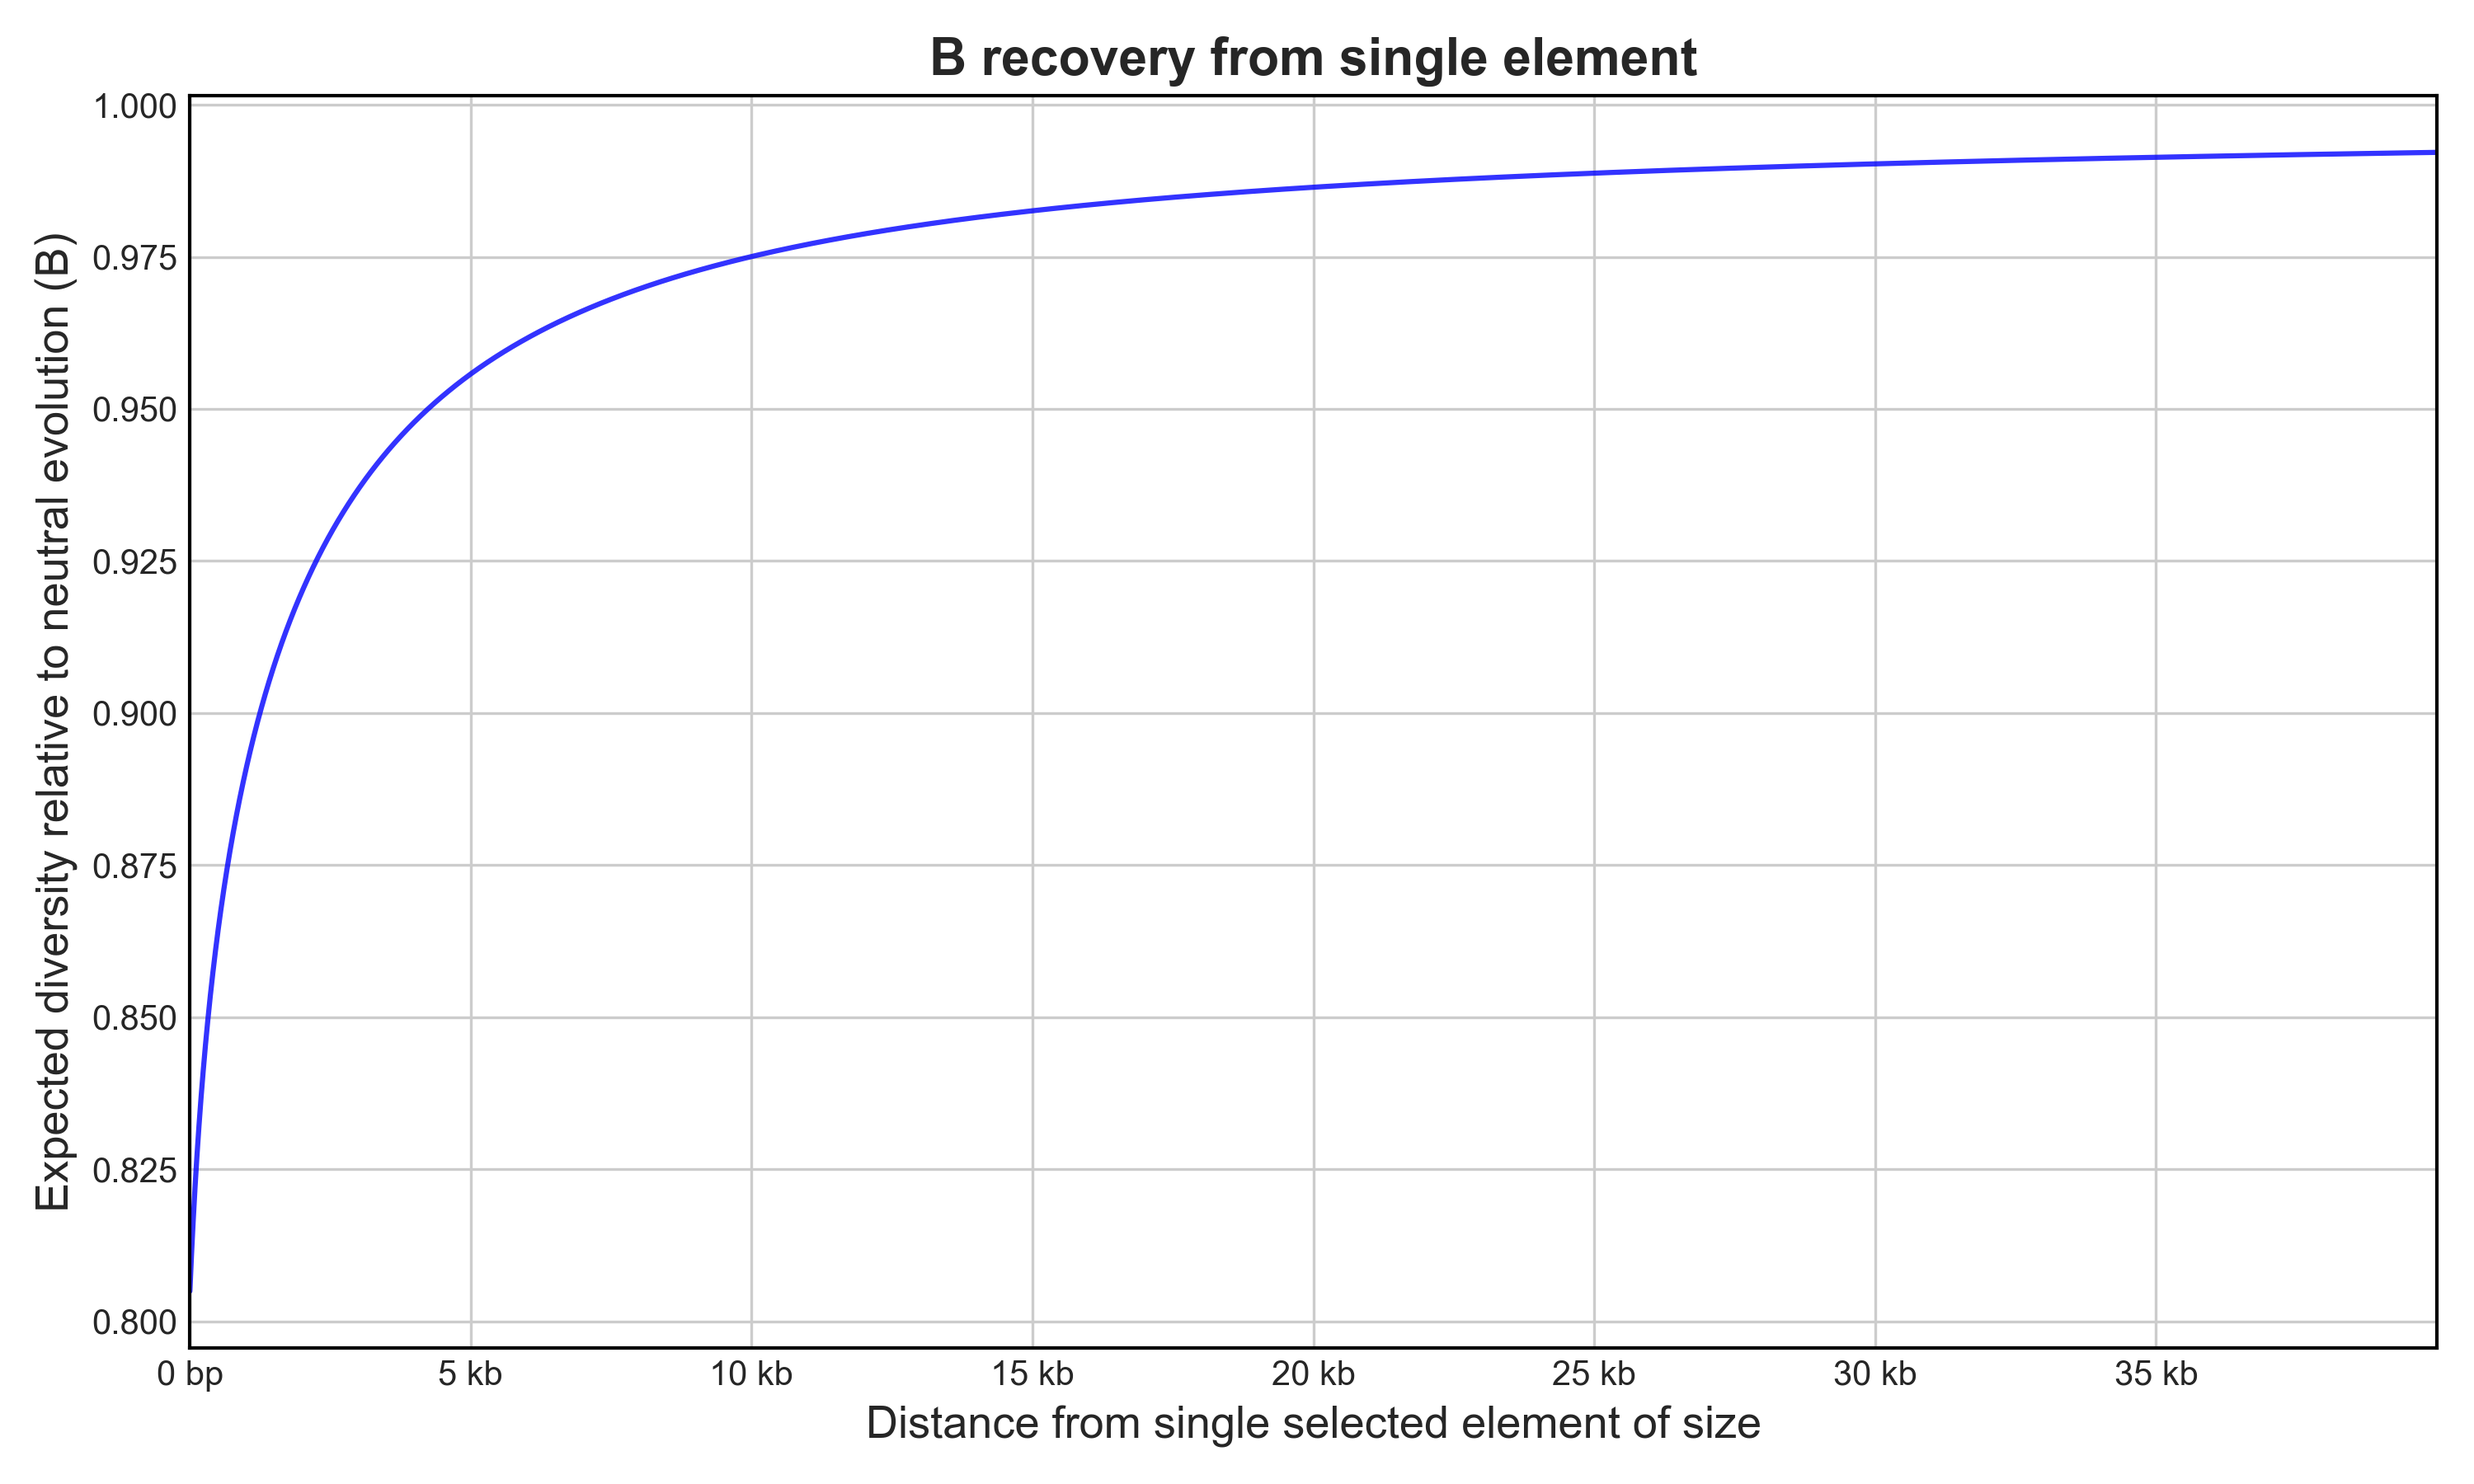
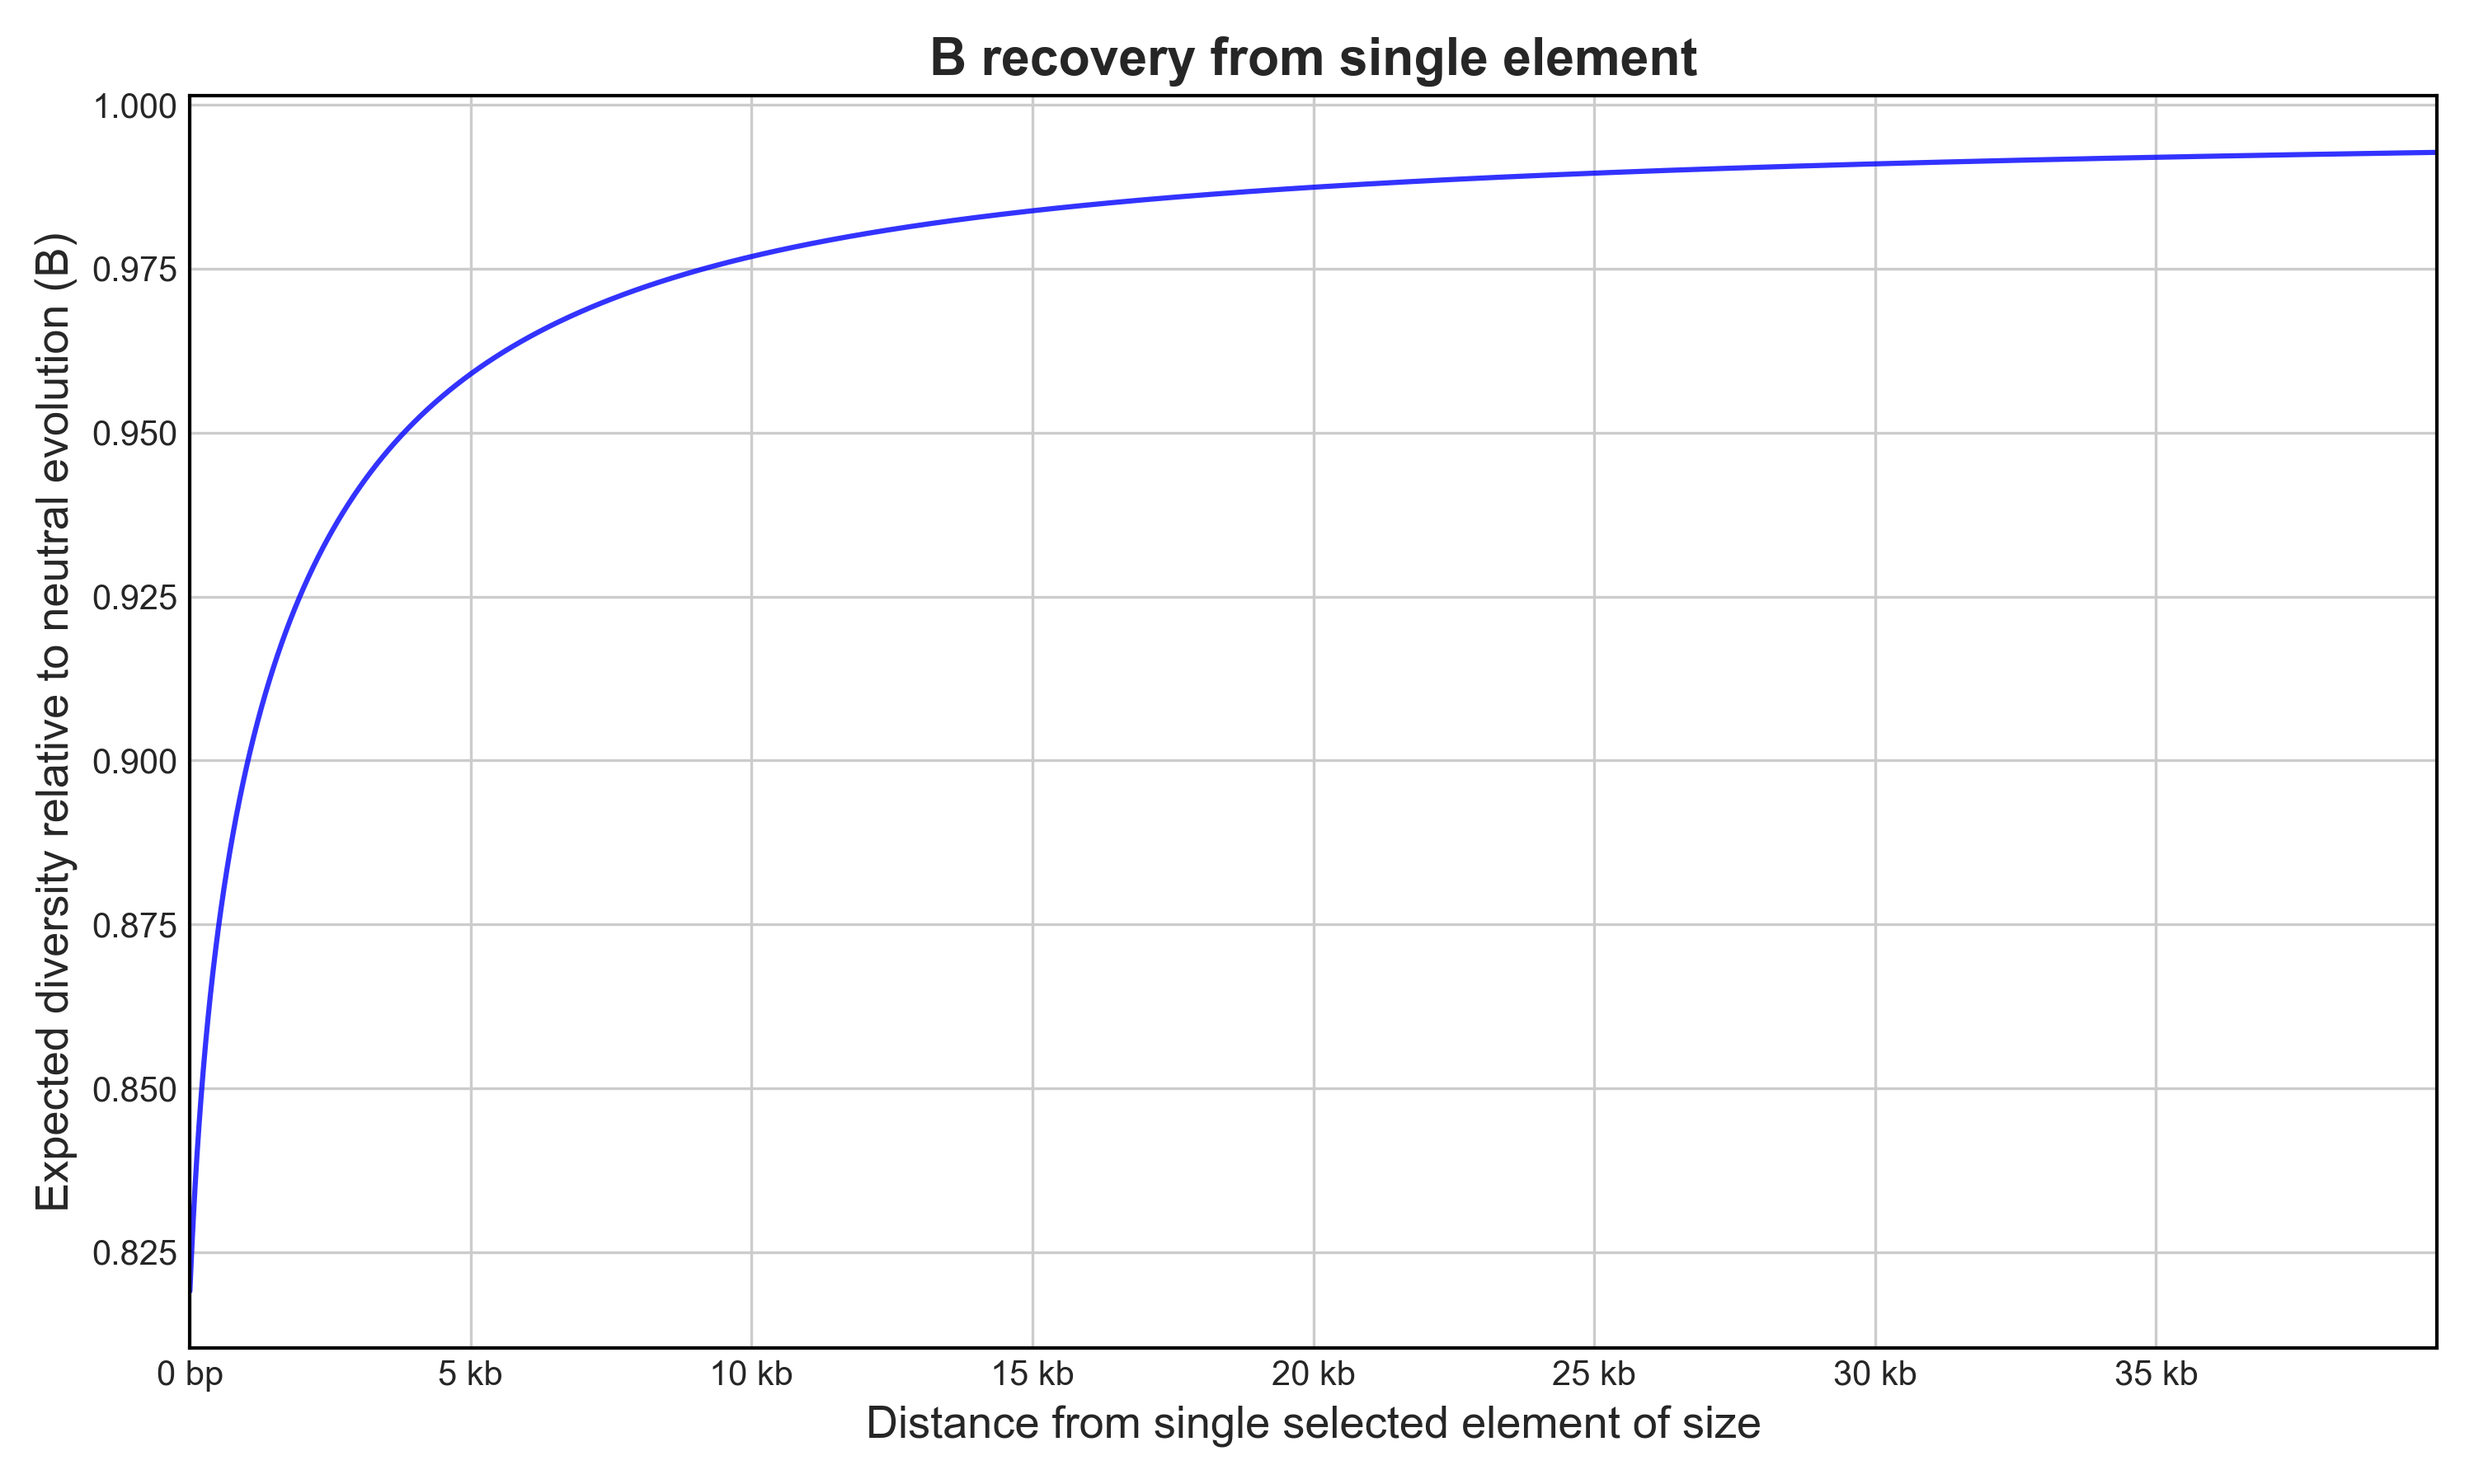
Add demography params to test files

diff --git a/tests/testparams/ExpandParams_5N_1T.py b/tests/testparams/ExpandParams_5N_1T.py
@@ -1,4 +1,4 @@
-## ./Bvalcalc.py --gene --pop_params tests/testparams/ContractParams_5N_0.2T.py --plot_output --out ../sim_testing/calculatedBfiles/40kb_contract_5N_0.2T.bvals --pop_change
+## ./Bvalcalc.py --gene --pop_params tests/testparams/ExpandParams_5N_1T.py --plot_output --out ../sim_testing/calculatedBfiles/40kb_expand_5N_1T.bvals --pop_change
 
 ## Core parameters
 x = 100 # Scaling factor (N,u,r), keep as 1 unless calculating for rescaled simulations
@@ -9,8 +9,8 @@ g = 0*1e-8*x # Gene conversion initiation rate per bp, per generation
 k = 440 # Gene conversion tract length (bp)
 
 ## Demography parameters
-Ncur = Nanc/5 # Current population size (!Requires --pop_change)
-time_of_change = 0.2*Nanc # Time in 2Ncur generations ago that effective population size went from Nanc to Ncur (!Requires --pop_change)
+Ncur = Nanc*5 # Current population size (!Requires --pop_change)
+time_of_change = 1*Nanc # Time in 2Ncur generations ago that effective population size went from Nanc to Ncur (!Requires --pop_change)
 
 # Distribution of fitness effects (DFE) parameters (Must equal 1)
 f0 = 0.1 #(*Proportion of effectively neutral mutations with 0 <= |2Nes| < 1 *) 0.25

diff --git a/tests/testparams/ContractParams_5N_1T.py b/tests/testparams/ContractParams_5N_1T.py
@@ -1,4 +1,4 @@
-## ./Bvalcalc.py --gene --pop_params tests/testparams/ContractParams_5N_0.2T.py --plot_output --out ../sim_testing/calculatedBfiles/40kb_contract_5N_0.2T.bvals --pop_change
+## ./Bvalcalc.py --gene --pop_params tests/testparams/ContractParams_5N_1T.py --plot_output --out ../sim_testing/calculatedBfiles/40kb_contract_5N_1T.bvals --pop_change
 
 ## Core parameters
 x = 100 # Scaling factor (N,u,r), keep as 1 unless calculating for rescaled simulations
@@ -10,7 +10,7 @@ k = 440 # Gene conversion tract length (bp)
 
 ## Demography parameters
 Ncur = Nanc/5 # Current population size (!Requires --pop_change)
-time_of_change = 0.2*Nanc # Time in 2Ncur generations ago that effective population size went from Nanc to Ncur (!Requires --pop_change)
+time_of_change = 1*Nanc # Time in 2Ncur generations ago that effective population size went from Nanc to Ncur (!Requires --pop_change)
 
 # Distribution of fitness effects (DFE) parameters (Must equal 1)
 f0 = 0.1 #(*Proportion of effectively neutral mutations with 0 <= |2Nes| < 1 *) 0.25

diff --git a/tests/testparams/ExpandParams_5N_0.2T.py b/tests/testparams/ExpandParams_5N_0.2T.py
@@ -1,4 +1,4 @@
-## ./Bvalcalc.py --gene --pop_params tests/testparams/ContractParams_5N_0.2T.py --plot_output --out ../sim_testing/calculatedBfiles/40kb_contract_5N_0.2T.bvals --pop_change
+# ./Bvalcalc.py --gene --pop_params tests/testparams/ExpandParams_5N_0.2T.py --plot_output --out ../sim_testing/calculatedBfiles/40kb_expand_5N_0.2T.bvals --pop_change 
 
 ## Core parameters
 x = 100 # Scaling factor (N,u,r), keep as 1 unless calculating for rescaled simulations
@@ -9,7 +9,7 @@ g = 0*1e-8*x # Gene conversion initiation rate per bp, per generation
 k = 440 # Gene conversion tract length (bp)
 
 ## Demography parameters
-Ncur = Nanc/5 # Current population size (!Requires --pop_change)
+Ncur = Nanc*5 # Current population size (!Requires --pop_change)
 time_of_change = 0.2*Nanc # Time in 2Ncur generations ago that effective population size went from Nanc to Ncur (!Requires --pop_change)
 
 # Distribution of fitness effects (DFE) parameters (Must equal 1)
